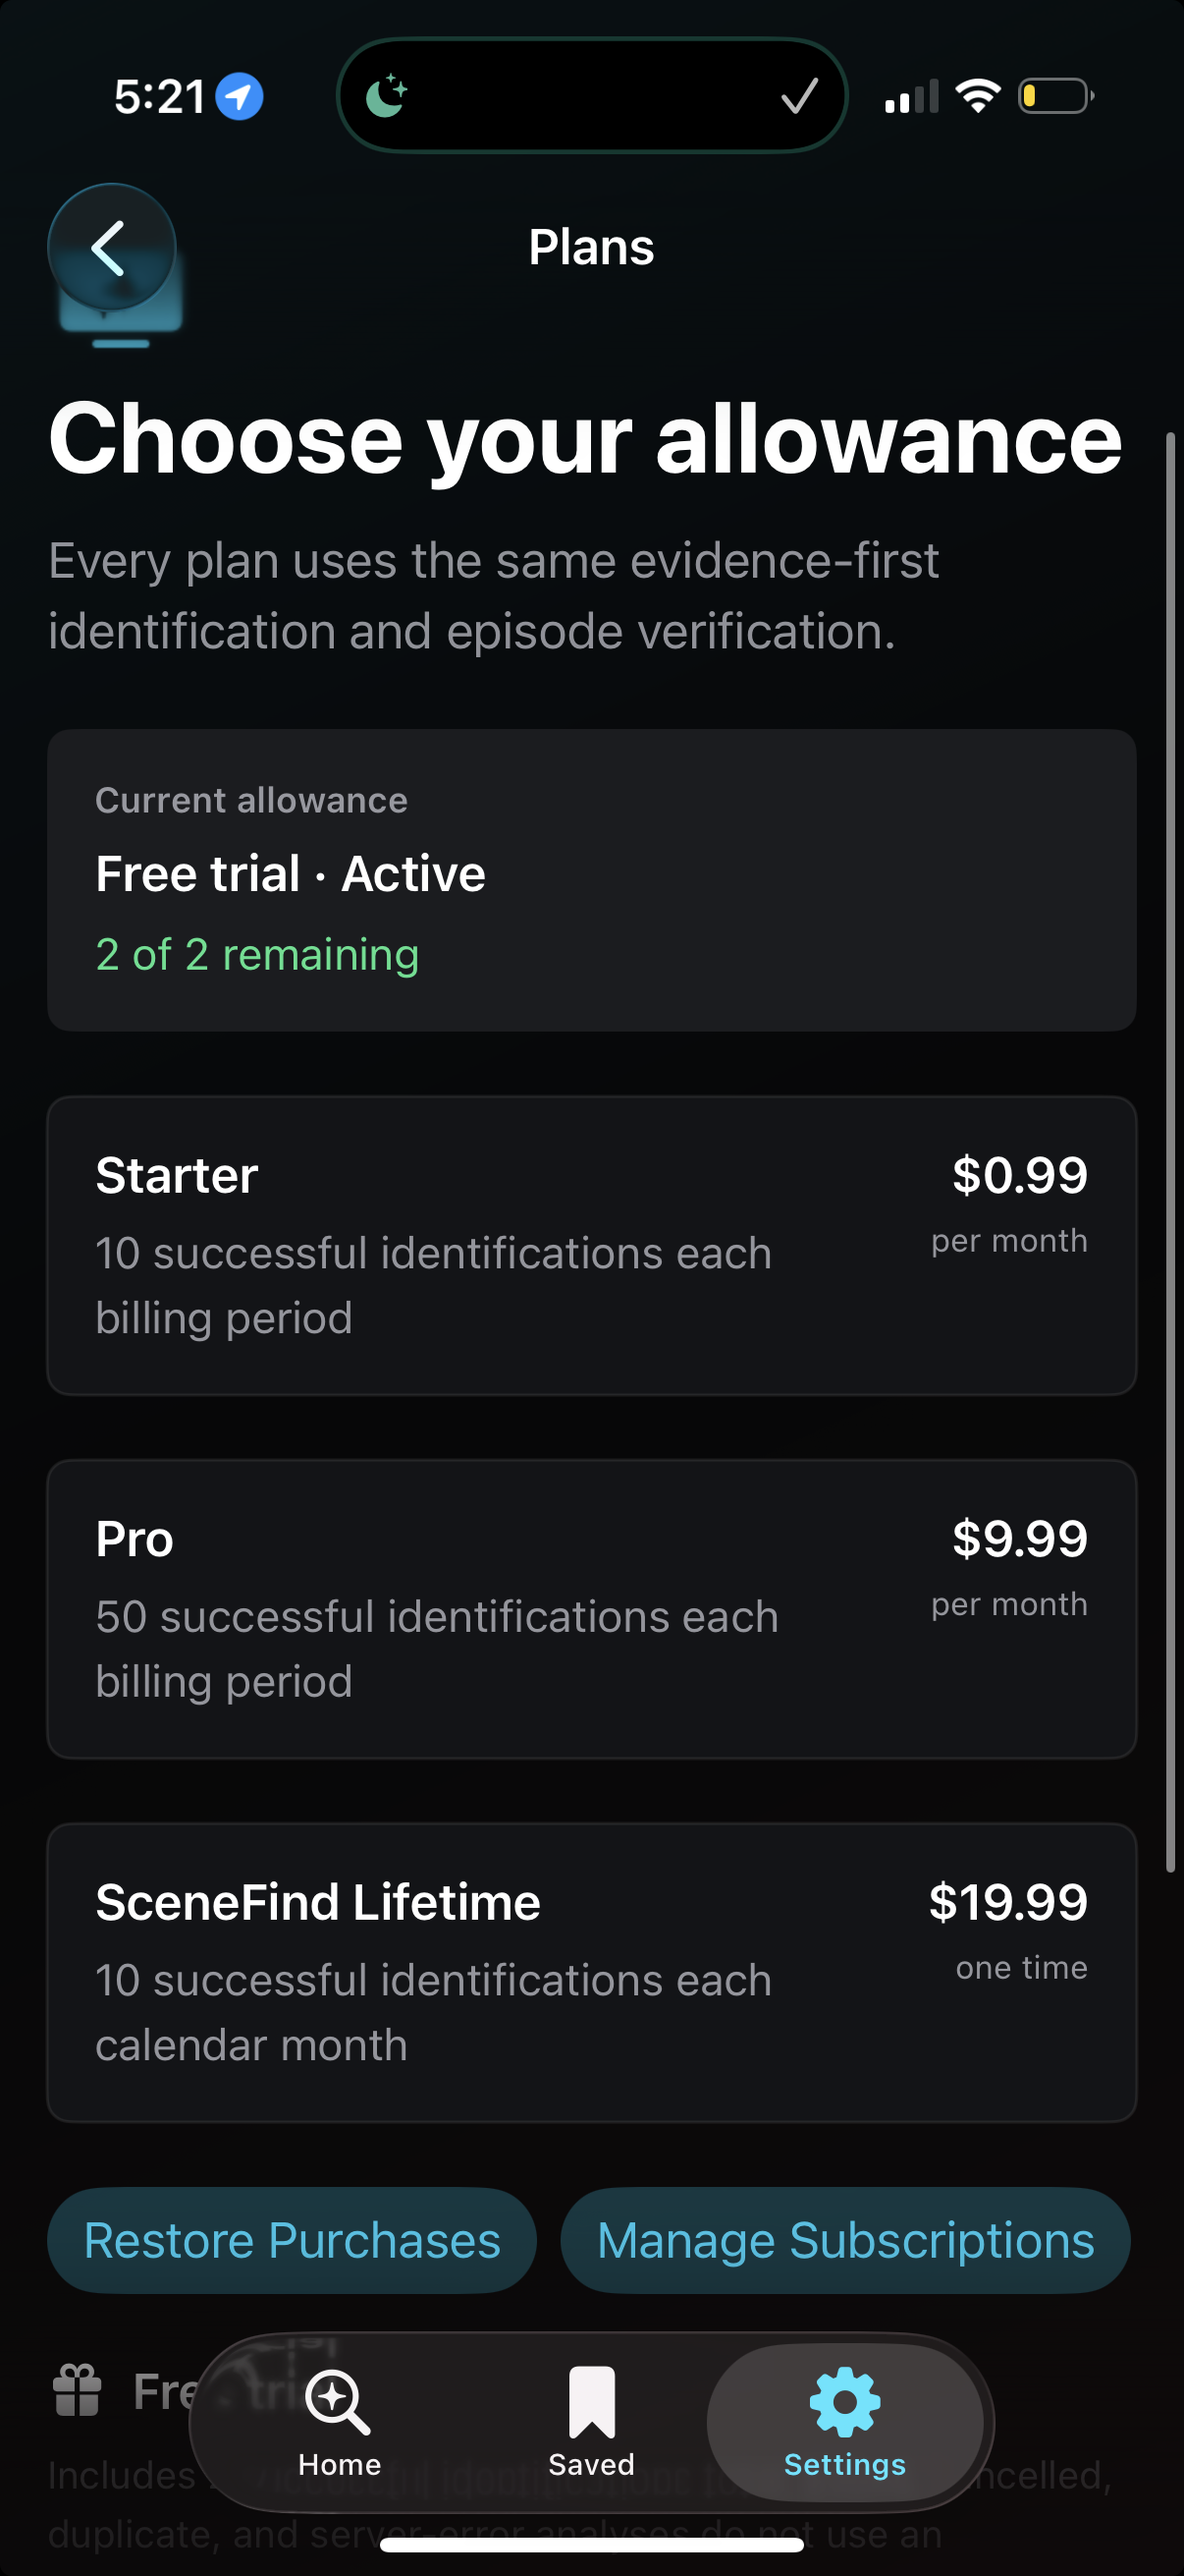
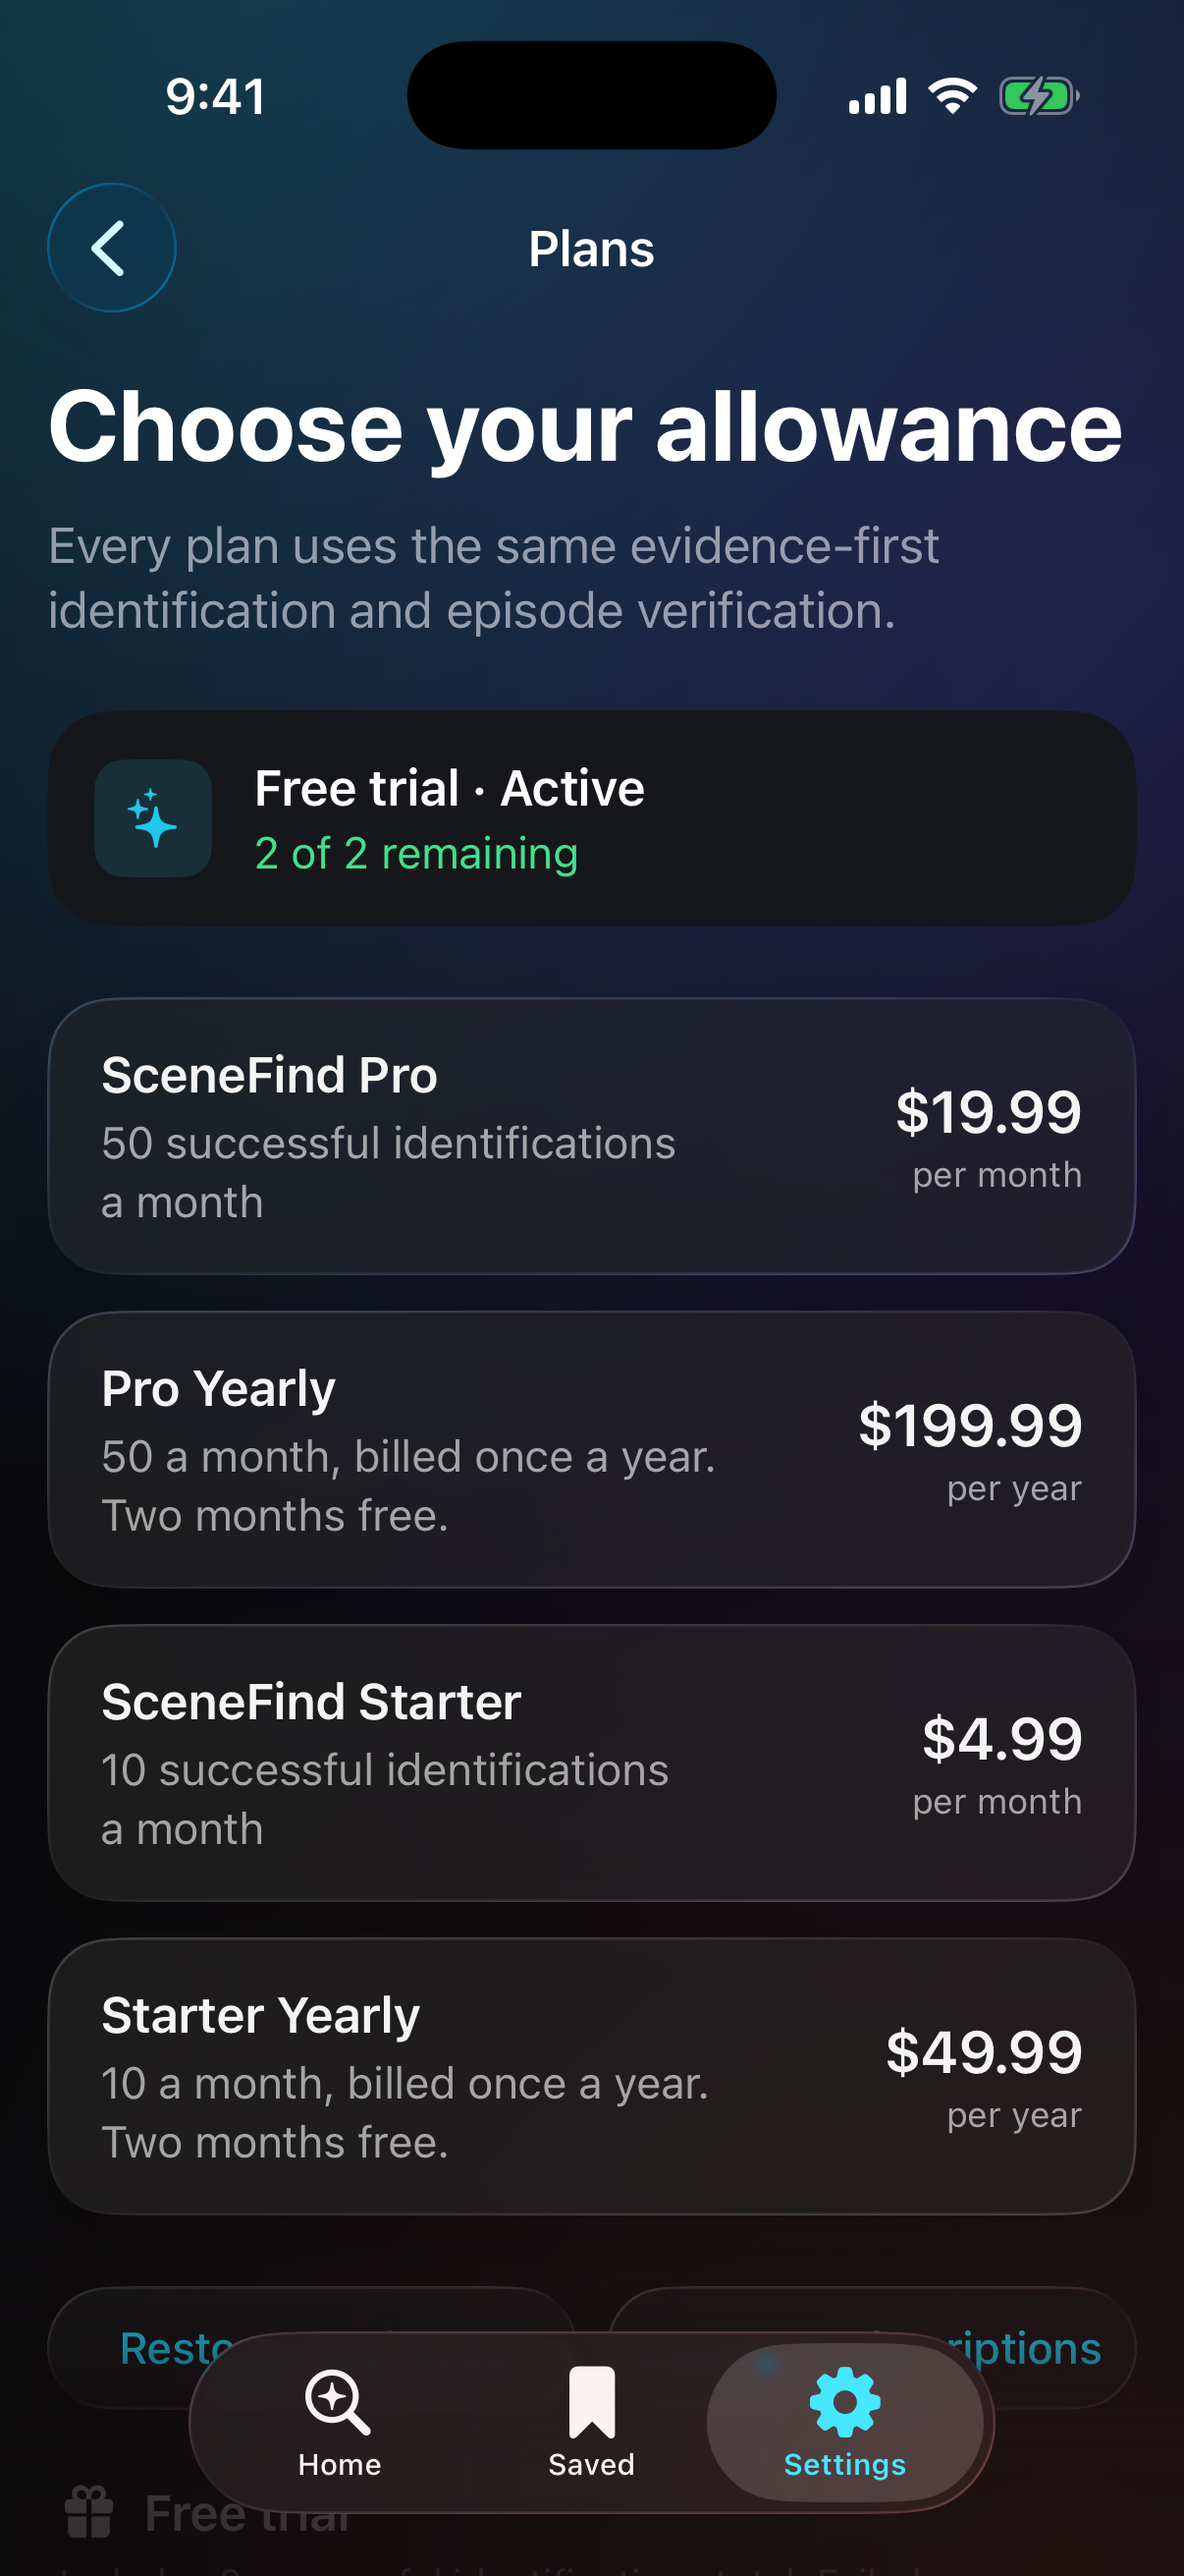
Capture the plans screen for App Review without StoreKit [ci skip]
Every subscription needs a review screenshot, and the one on file still
showed Lifetime at $19.99. StoreKit test products only load when Xcode
itself launches the app, so `-SceneFindMarketing=plans` now opens the
paywall with the live plan lineup and a neutral allowance instead of the
offline error. Both preview paths are DEBUG-only.

diff --git a/SceneFindApp/Features/Paywall/PaywallView.swift b/SceneFindApp/Features/Paywall/PaywallView.swift
@@ -18,7 +18,7 @@ struct PaywallView: View {
 
                 currentAllowance
 
-                if subscription.products.isEmpty {
+                if planRows.isEmpty {
                     ContentUnavailableView(
                         "Plans unavailable",
                         systemImage: "wifi.slash",
@@ -29,8 +29,8 @@ struct PaywallView: View {
                 } else {
                     SceneGlassContainer(spacing: 12) {
                         VStack(spacing: 12) {
-                            ForEach(subscription.products, id: \.id) { product in
-                                productButton(product)
+                            ForEach(planRows) { row in
+                                planButton(row)
                             }
                         }
                     }
@@ -90,9 +90,9 @@ struct PaywallView: View {
         HStack(spacing: 14) {
             IconTile(symbol: "sparkles", tint: .sceneCyan)
             VStack(alignment: .leading, spacing: 3) {
-                Text(subscription.accessLabel)
+                Text(allowanceTitle)
                     .font(.headline)
-                Text(subscription.allowanceLabel)
+                Text(allowanceDetail)
                     .font(.subheadline)
                     .foregroundStyle(Color.sceneGreen)
             }
@@ -101,29 +101,64 @@ struct PaywallView: View {
         .padding(16)
         .background(Color.sceneSurface, in: SceneShape.card)
         .accessibilityElement(children: .combine)
-        .accessibilityLabel("Current allowance: \(subscription.accessLabel), \(subscription.allowanceLabel)")
+        .accessibilityLabel("Current allowance: \(allowanceTitle), \(allowanceDetail)")
     }
 
-    private func productButton(_ product: Product) -> some View {
+    // The screenshot preview has no backend, so it would otherwise show the
+    // offline state on a screen meant to show the plans.
+    private var allowanceTitle: String {
+        #if DEBUG
+        if MarketingPreview.isEnabled { return "Free trial · Active" }
+        #endif
+        return subscription.accessLabel
+    }
+
+    private var allowanceDetail: String {
+        #if DEBUG
+        if MarketingPreview.isEnabled { return "2 of 2 remaining" }
+        #endif
+        return subscription.allowanceLabel
+    }
+
+    /// One row per plan. Rows come from StoreKit, except in the screenshot
+    /// preview, where StoreKit has nothing to return.
+    private var planRows: [PlanRow] {
+        #if DEBUG
+        if MarketingPreview.isEnabled { return PlanRow.previewRows }
+        #endif
+        return subscription.products.map { product in
+            PlanRow(
+                id: product.id,
+                name: product.displayName,
+                price: product.displayPrice,
+                cadence: SubscriptionProductIDs.yearly.contains(product.id) ? "per year" : "per month",
+                details: planDetails(product.id),
+                product: product
+            )
+        }
+    }
+
+    private func planButton(_ row: PlanRow) -> some View {
         Button {
+            guard let product = row.product else { return }
             Task { await subscription.purchase(product) }
         } label: {
             HStack(alignment: .center, spacing: 14) {
                 VStack(alignment: .leading, spacing: 4) {
-                    Text(product.displayName)
+                    Text(row.name)
                         .font(.headline)
                         .foregroundStyle(.primary)
-                    Text(planDetails(product.id))
+                    Text(row.details)
                         .font(.subheadline)
                         .foregroundStyle(.secondary)
                         .fixedSize(horizontal: false, vertical: true)
                 }
                 Spacer(minLength: 12)
                 VStack(alignment: .trailing, spacing: 2) {
-                    Text(product.displayPrice)
+                    Text(row.price)
                         .font(.title3.weight(.semibold))
                         .foregroundStyle(.primary)
-                    Text(SubscriptionProductIDs.yearly.contains(product.id) ? "per year" : "per month")
+                    Text(row.cadence)
                         .font(.caption)
                         .foregroundStyle(.secondary)
                 }
@@ -135,7 +170,7 @@ struct PaywallView: View {
         .buttonStyle(.plain)
         .sceneGlassInteractive(in: SceneShape.card)
         .disabled(subscription.purchaseInProgress)
-        .accessibilityHint("Purchases \(product.displayName) through the App Store")
+        .accessibilityHint("Purchases \(row.name) through the App Store")
     }
 
     private func secondaryButton(_ title: String, action: @escaping () -> Void) -> some View {
@@ -178,3 +213,29 @@ struct PaywallView: View {
         }
     }
 }
+
+/// A plan as the paywall draws it.
+private struct PlanRow: Identifiable {
+    let id: String
+    let name: String
+    let price: String
+    let cadence: String
+    let details: String
+    var product: Product?
+}
+
+#if DEBUG
+extension PlanRow {
+    /// Mirrors the live App Store products for the review screenshot.
+    static let previewRows: [PlanRow] = [
+        PlanRow(id: SubscriptionProductIDs.pro, name: "SceneFind Pro", price: "$19.99",
+                cadence: "per month", details: "50 successful identifications a month"),
+        PlanRow(id: SubscriptionProductIDs.proYearly, name: "Pro Yearly", price: "$199.99",
+                cadence: "per year", details: "50 a month, billed once a year. Two months free."),
+        PlanRow(id: SubscriptionProductIDs.starter, name: "SceneFind Starter", price: "$4.99",
+                cadence: "per month", details: "10 successful identifications a month"),
+        PlanRow(id: SubscriptionProductIDs.starterYearly, name: "Starter Yearly", price: "$49.99",
+                cadence: "per year", details: "10 a month, billed once a year. Two months free."),
+    ]
+}
+#endif

diff --git a/SceneFindApp/App/AppState.swift b/SceneFindApp/App/AppState.swift
@@ -326,6 +326,10 @@ enum MarketingPreview {
         case result
         case saved
         case services
+        /// The plans screen, for the App Review screenshot each subscription
+        /// needs. StoreKit test products only load when Xcode launches the app,
+        /// so the preview supplies the rows instead.
+        case plans
     }
 
     private static let argumentPrefix = "-SceneFindMarketing="

diff --git a/SceneFindApp/App/SceneFindApp.swift b/SceneFindApp/App/SceneFindApp.swift
@@ -112,6 +112,8 @@ struct RootView: View {
         case .result:
             guard let result = model.recentResults.first else { return }
             router.navigate(to: .result(result.id))
+        case .plans:
+            router.navigate(to: .paywall)
         }
     }
 
